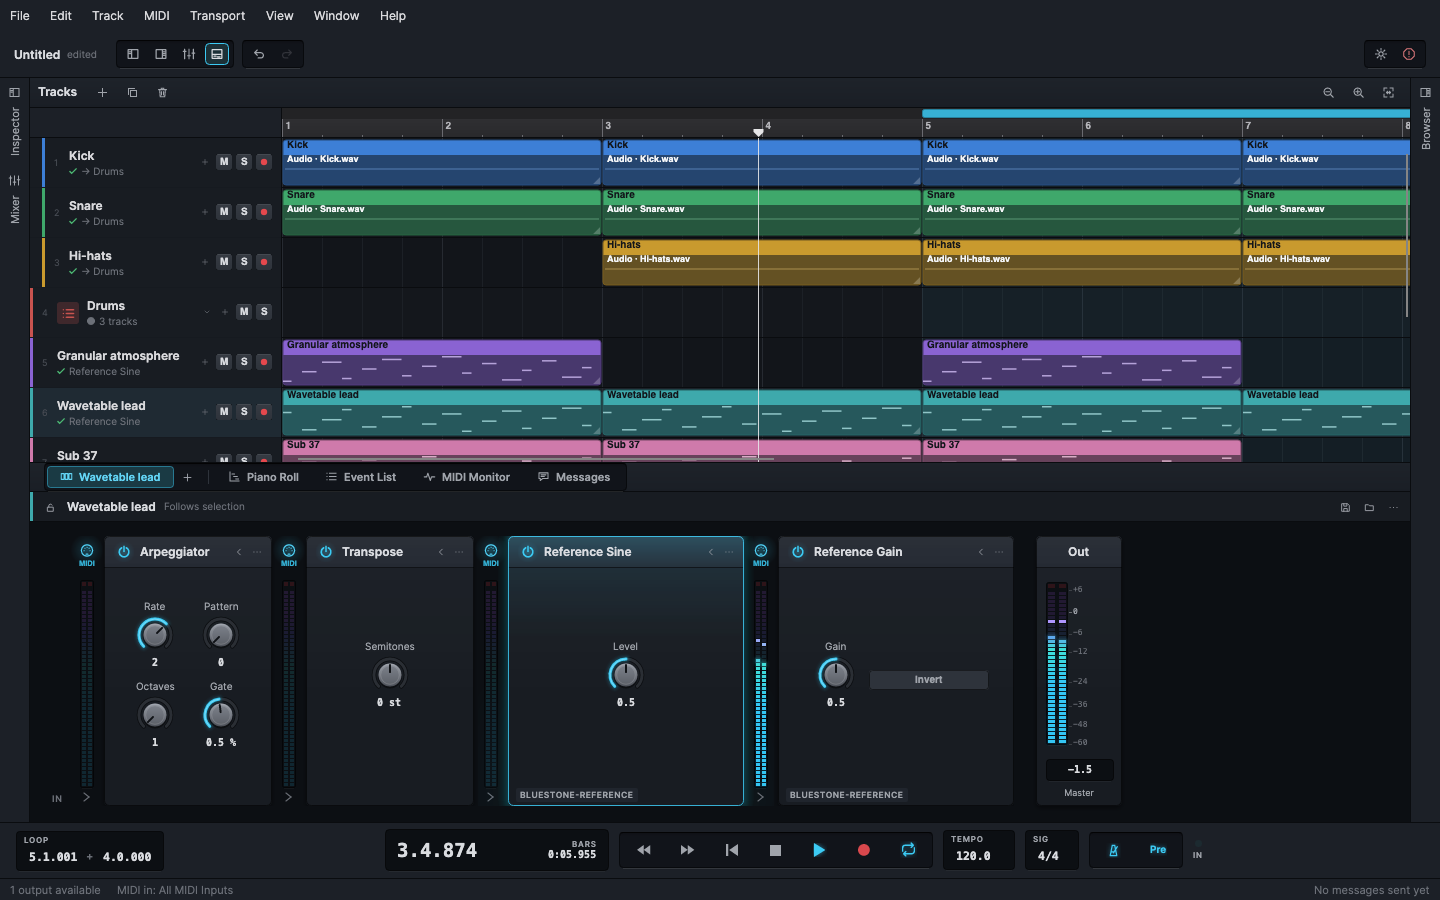
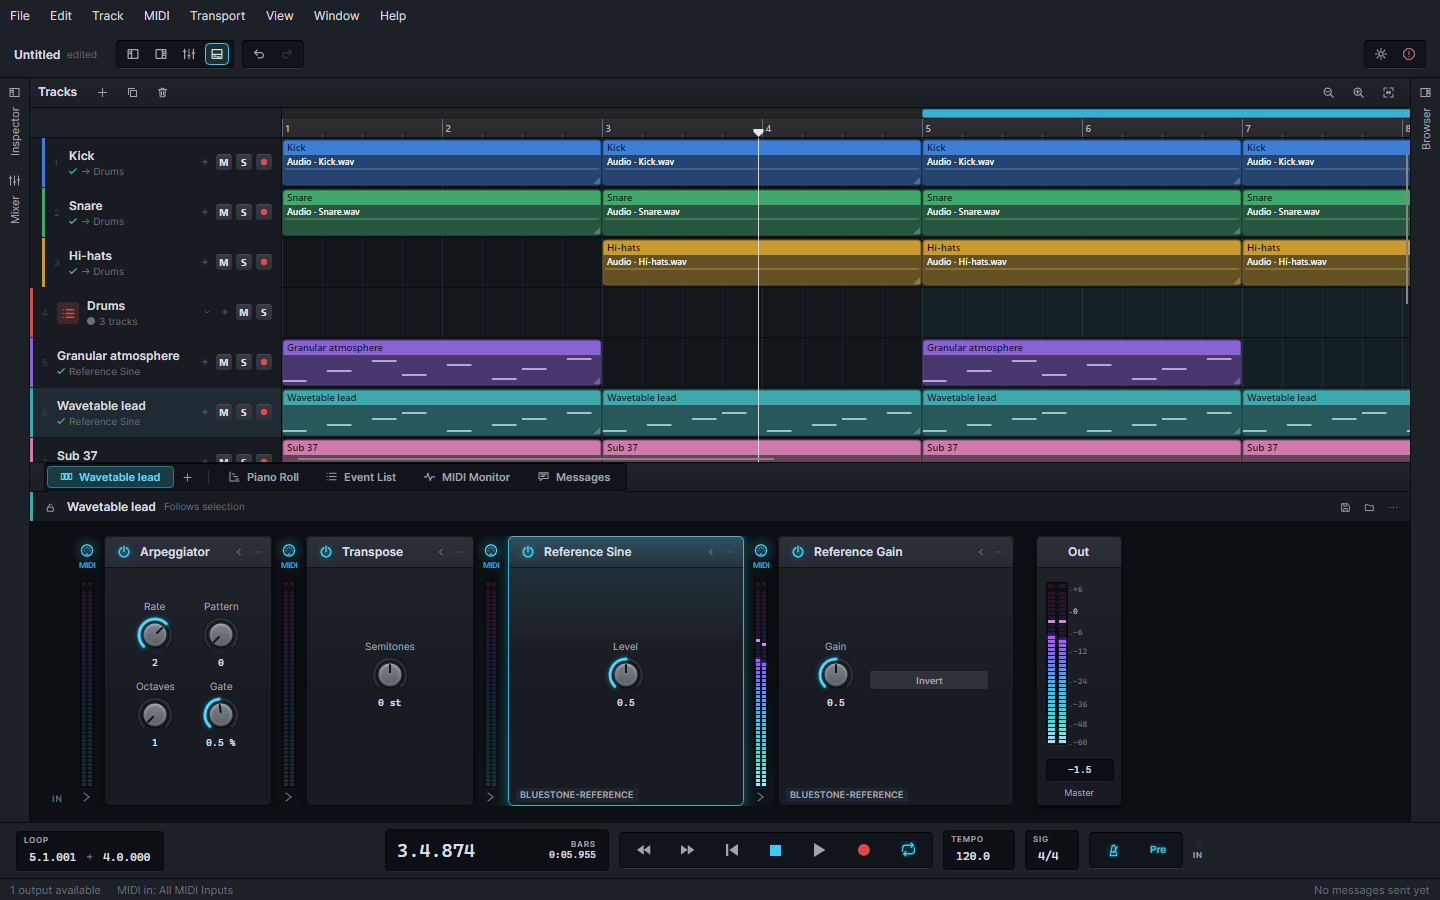
Use customized signal gradient as the meter default
Refresh mixer and device-chain defaults and README screenshots while preserving saved custom palettes.

diff --git a/src/dotnet/Bluestone.Tests.Ui/SettingsTests.cs b/src/dotnet/Bluestone.Tests.Ui/SettingsTests.cs
@@ -52,33 +52,33 @@ public sealed class SettingsTests : IDisposable
             var editor = AppUnderTest.Within<SignalGradientEditor>(page, _ => true);
             TextKey ActionKey(string name) => AppUnderTest.Within<TextKey>(page, k => Avalonia.Automation.AutomationProperties.GetName(k) == name);
             string[] Names() => [.. editor.Handles.Select(h => Avalonia.Automation.AutomationProperties.GetName(h) ?? string.Empty)];
-            Assert.Equal(["Gradient stop 1 at 0%", "Gradient stop 2 at 40%", "Gradient stop 3 at 62%", "Gradient stop 4 at 78%", "Gradient stop 5 at 86%", "Gradient stop 6 at 100%"], Names());
+            Assert.Equal(["Gradient stop 1 at 0%", "Gradient stop 2 at 14%", "Gradient stop 3 at 32%", "Gradient stop 4 at 57%", "Gradient stop 5 at 72%", "Gradient stop 6 at 100%"], Names());
             Assert.Same(display.Mixer, editor.DataContext);
 
-            // Add: a stop in the widest gap (0% to 40%), selected, saved, and on every meter.
+            // Add: a stop in the widest gap (purple to pink), selected, saved, and on every meter.
             app.Click(ActionKey("Add gradient stop"));
             Assert.False(ActionKey("Add gradient stop").IsChecked, "An action key springs back.");
             Assert.Equal(7, store.Load().MixerGradient.Stops.Length);
-            Assert.Equal("Gradient stop 2 at 20%", Names()[1]);
-            Assert.Equal("20%", AppUnderTest.Within<TextBlock>(page, t => t.Name == "StopPositionText").Text);
+            Assert.Equal("Gradient stop 6 at 86%", Names()[5]);
+            Assert.Equal("86%", AppUnderTest.Within<TextBlock>(page, t => t.Name == "StopPositionText").Text);
             Assert.Equal(7, Desktop.Theme.MeterGradient.Mixer.Stops.Count);
 
-            // Move: drag the new stop to 30%, then nudge it with the keyboard (1%, and 5% with Shift).
-            var handle = editor.Handles[1];
+            // Move: drag the new stop to 20%, then nudge it with the keyboard (1%, and 5% with Shift).
+            var handle = editor.Handles[5];
             var from = new Point(handle.Bounds.Center.X, handle.Bounds.Center.Y);
-            app.Drag(editor, from, new Point(editor.XAt(0.3), from.Y));
-            Assert.Equal(0.3, store.Load().MixerGradient.Stops[1].Position, 2);
-            Assert.True(editor.Handles[1].IsFocused);
+            app.Drag(editor, from, new Point(editor.XAt(0.2), from.Y));
+            Assert.Equal(0.2, store.Load().MixerGradient.Stops[2].Position, 2);
+            Assert.True(editor.Handles[2].IsFocused);
             app.Press(Key.Right);
-            Assert.Equal(0.31, store.Load().MixerGradient.Stops[1].Position, 3);
+            Assert.Equal(0.21, store.Load().MixerGradient.Stops[2].Position, 3);
             app.Press(Key.Right, RawInputModifiers.Shift);
-            Assert.Equal(0.36, store.Load().MixerGradient.Stops[1].Position, 3);
-            Assert.Equal("Gradient stop 2 at 36%", Names()[1]);
-            Assert.Equal(0.36, Desktop.Theme.MeterGradient.Mixer.Stops[1].Position, 3);
+            Assert.Equal(0.26, store.Load().MixerGradient.Stops[2].Position, 3);
+            Assert.Equal("Gradient stop 3 at 26%", Names()[2]);
+            Assert.Equal(0.26, Desktop.Theme.MeterGradient.Mixer.Stops[2].Position, 3);
 
             // A swatch recolours the selected stop.
             app.Click(AppUnderTest.Within<Button>(page, b => Avalonia.Automation.AutomationProperties.GetName(b) == "Color #4CB873"));
-            Assert.Equal(new SignalGradientStop("#4CB873", 0.36), store.Load().MixerGradient.Stops[1]);
+            Assert.Equal(new SignalGradientStop("#4CB873", 0.26), store.Load().MixerGradient.Stops[2]);
             app.Window.MouseMove(new Point(1300, 800), RawInputModifiers.None);
             await app.SettleTransitionsAsync();
             var frame = app.SaveFrame("settings-display-gradient-editor");
@@ -244,7 +244,7 @@ public sealed class SettingsTests : IDisposable
             var start = handle.TranslatePoint(new Point(handle.Bounds.Width / 2, handle.Bounds.Height / 2), app.Window)!.Value;
             app.Window.MouseMove(start, RawInputModifiers.None);
             app.Window.MouseDown(start, MouseButton.Left, RawInputModifiers.None);
-            for (var position = 0.35; position > 0.24; position -= 0.05)
+            for (var position = 0.30; position > 0.19; position -= 0.05)
             {
                 var at = new Point(editor.TranslatePoint(new Point(editor.XAt(position), 0), app.Window)!.Value.X, start.Y);
                 app.Window.MouseMove(at, RawInputModifiers.LeftMouseButton);
@@ -254,9 +254,9 @@ public sealed class SettingsTests : IDisposable
                 Assert.Equal(saved, File.ReadAllText(path));
             }
 
-            app.Window.MouseUp(new Point(editor.TranslatePoint(new Point(editor.XAt(0.25), 0), app.Window)!.Value.X, start.Y), MouseButton.Left, RawInputModifiers.None);
+            app.Window.MouseUp(new Point(editor.TranslatePoint(new Point(editor.XAt(0.20), 0), app.Window)!.Value.X, start.Y), MouseButton.Left, RawInputModifiers.None);
             app.Settle();
-            Assert.Equal(0.25, store.Load().MixerGradient.Stops[1].Position, 2);
+            Assert.Equal(0.20, store.Load().MixerGradient.Stops[1].Position, 2);
 
             // Nudges stop at the ends of the scale, by 1% or by 5% with Shift.
             editor.Handles[0].Focus();
@@ -276,9 +276,9 @@ public sealed class SettingsTests : IDisposable
             Assert.Equal(AutomationControlType.Slider, stopPeer.GetAutomationControlType());
             Assert.StartsWith(display.Mixer.Gradient.Stops[2].Colour + ". Left or Right to move", stopPeer.GetHelpText(), StringComparison.Ordinal);
             var range = Assert.IsAssignableFrom<IRangeValueProvider>(stopPeer);
-            Assert.Equal((0, 100, 62), (range.Minimum, range.Maximum, range.Value));
-            range.SetValue(70);
-            Assert.Equal(0.7, store.Load().MixerGradient.Stops[2].Position, 3);
+            Assert.Equal((0, 100, 32.3), (range.Minimum, range.Maximum, range.Value));
+            range.SetValue(50);
+            Assert.Equal(0.5, store.Load().MixerGradient.Stops[2].Position, 3);
 
             // The gradient's actions are buttons, not toggles, and stay unchecked.
             var add = AppUnderTest.Within<TextKey>(page, k => Avalonia.Automation.AutomationProperties.GetName(k) == "Add gradient stop");

diff --git a/src/dotnet/Bluestone.Tests.Unit/Presentation/DisplaySettingsTests.cs b/src/dotnet/Bluestone.Tests.Unit/Presentation/DisplaySettingsTests.cs
@@ -135,23 +135,23 @@ public sealed class DisplaySettingsTests : IDisposable
 
         // A new stop takes the colour already there, so the gradient looks the same.
         var before = display.Mixer.Gradient.Evaluate(0.2);
-        Assert.Equal(1, display.Mixer.AddGradientStop(0.2));
+        Assert.Equal(2, display.Mixer.AddGradientStop(0.2));
         Assert.Equal(7, display.Mixer.Gradient.Stops.Length);
-        Assert.Equal(new SignalGradientStop("#34C6F4", 0.2), display.Mixer.Gradient.Stops[1]);
+        Assert.Equal(new SignalGradientStop("#3BD7E2", 0.2), display.Mixer.Gradient.Stops[2]);
         Assert.Equal(before, display.Mixer.Gradient.Evaluate(0.2));
         Assert.Contains(nameof(GradientEditorViewModel.Gradient), notified);
         Assert.Equal(display.Mixer.Gradient, store.Load().MixerGradient);
 
-        Assert.True(display.Mixer.SetGradientStopColour(1, "#ff0000"));
-        Assert.Equal(new SignalGradientStop("#FF0000", 0.2), store.Load().MixerGradient.Stops[1]);
-        Assert.False(display.Mixer.SetGradientStopColour(1, "red"));
+        Assert.True(display.Mixer.SetGradientStopColour(2, "#ff0000"));
+        Assert.Equal(new SignalGradientStop("#FF0000", 0.2), store.Load().MixerGradient.Stops[2]);
+        Assert.False(display.Mixer.SetGradientStopColour(2, "red"));
         Assert.False(display.Mixer.SetGradientStopColour(9, "#FF0000"));
 
         // Moving past a neighbour reorders; the returned index follows the stop.
-        Assert.Equal(2, display.Mixer.MoveGradientStop(1, 0.5));
-        Assert.Equal(new SignalGradientStop("#FF0000", 0.5), store.Load().MixerGradient.Stops[2]);
+        Assert.Equal(4, display.Mixer.MoveGradientStop(2, 0.6));
+        Assert.Equal(new SignalGradientStop("#FF0000", 0.6), store.Load().MixerGradient.Stops[4]);
         // At a tie it keeps its order relative to the stop already there.
-        Assert.Equal(5, display.Mixer.MoveGradientStop(2, 1.5));
+        Assert.Equal(5, display.Mixer.MoveGradientStop(4, 1.5));
         Assert.Equal(new SignalGradientStop("#FF0000", 1), store.Load().MixerGradient.Stops[5]);
         Assert.Equal(-1, display.Mixer.MoveGradientStop(7, 0.5));
 
@@ -183,11 +183,12 @@ public sealed class DisplaySettingsTests : IDisposable
         var display = new DisplayViewModel();
         display.Use(store);
 
-        // Default's widest gap is 0 to 0.40, so the new stop goes at 0.20 and is selected.
+        // Default's widest gap is purple to pink, so its midpoint is selected.
         display.Mixer.AddGradientStopInLargestGapCommand.Execute(null);
-        Assert.Equal(1, display.Mixer.SelectedGradientStopIndex);
-        Assert.Equal(new SignalGradientStop("#34C6F4", 0.2), display.Mixer.SelectedGradientStop);
-        Assert.Equal("20%", display.Mixer.SelectedGradientStopPercent);
+        Assert.Equal(5, display.Mixer.SelectedGradientStopIndex);
+        Assert.Equal("#DB45C9", display.Mixer.SelectedGradientStop.Colour);
+        Assert.Equal(0.8595, display.Mixer.SelectedGradientStop.Position, precision: 6);
+        Assert.Equal("86%", display.Mixer.SelectedGradientStopPercent);
         Assert.Equal(7, store.Load().MixerGradient.Stops.Length);
 
         display.Mixer.AddGradientStopInLargestGapCommand.Execute(null);
@@ -222,22 +223,22 @@ public sealed class DisplaySettingsTests : IDisposable
 
         display.Mixer.NudgeGradientStop(1, 0.01);
         Assert.Equal(1, display.Mixer.SelectedGradientStopIndex);
-        Assert.Equal(0.41, store.Load().MixerGradient.Stops[1].Position);
-        Assert.Equal("41%", display.Mixer.SelectedGradientStopPercent);
+        Assert.Equal(0.146, store.Load().MixerGradient.Stops[1].Position);
+        Assert.Equal("15%", display.Mixer.SelectedGradientStopPercent);
 
-        // Past the 0.62 stop: the selection follows the stop to its new place.
+        // Past the cyan and violet stops: the selection follows the stop to its new place.
         display.Mixer.MoveAndSelectGradientStop(1, 0.7);
-        Assert.Equal(2, display.Mixer.SelectedGradientStopIndex);
-        Assert.Equal(new SignalGradientStop("#34C6F4", 0.7), display.Mixer.SelectedGradientStop);
-        display.Mixer.NudgeGradientStop(2, -0.05);
-        Assert.Equal(0.65, store.Load().MixerGradient.Stops[2].Position);
+        Assert.Equal(3, display.Mixer.SelectedGradientStopIndex);
+        Assert.Equal(new SignalGradientStop("#3FE0D8", 0.7), display.Mixer.SelectedGradientStop);
+        display.Mixer.NudgeGradientStop(3, -0.05);
+        Assert.Equal(0.65, store.Load().MixerGradient.Stops[3].Position);
 
         var notified = new List<string?>();
         display.Mixer.PropertyChanged += (_, e) => notified.Add(e.PropertyName);
         display.Mixer.SelectedGradientStopColour = "#12";
-        Assert.Equal("#34C6F4", display.Mixer.SelectedGradientStopColour);
+        Assert.Equal("#3FE0D8", display.Mixer.SelectedGradientStopColour);
         display.Mixer.SelectedGradientStopColour = "ff8800";
-        Assert.Equal("#FF8800", store.Load().MixerGradient.Stops[2].Colour);
+        Assert.Equal("#FF8800", store.Load().MixerGradient.Stops[3].Colour);
         Assert.Contains(nameof(GradientEditorViewModel.SelectedGradientStopColour), notified);
         display.Mixer.ChooseGradientStopColourCommand.Execute("#7C6BFF");
         Assert.Equal("#7C6BFF", display.Mixer.SelectedGradientStopColour);
@@ -368,12 +369,12 @@ public sealed class DisplaySettingsTests : IDisposable
 
         var saved = store.Load();
         Assert.Equal("#FF0000", saved.MixerGradient.Stops[0].Colour);
-        Assert.Equal(0.40, saved.MixerGradient.Stops[1].Position);
-        Assert.Equal("#34C6F4", saved.ChainGradient.Stops[0].Colour);
-        Assert.Equal(0.5, saved.ChainGradient.Stops[1].Position);
+        Assert.Equal(0.136, saved.MixerGradient.Stops[1].Position);
+        Assert.Equal("#B2E0F4", saved.ChainGradient.Stops[0].Colour);
+        Assert.Equal(0.5, saved.ChainGradient.Stops[2].Position);
         Assert.Equal(5, saved.GainGradient.Stops.Length);
         Assert.Equal(0, display.Mixer.SelectedGradientStopIndex);
-        Assert.Equal(1, display.Chain.SelectedGradientStopIndex);
+        Assert.Equal(2, display.Chain.SelectedGradientStopIndex);
 
         display.Gain.ResetGradientCommand.Execute(null);
         Assert.Equal(SignalGradient.GainDefault, store.Load().GainGradient);

diff --git a/src/dotnet/Bluestone.Presentation/SignalGradient.cs b/src/dotnet/Bluestone.Presentation/SignalGradient.cs
@@ -38,15 +38,15 @@ public sealed class SignalGradient : IEquatable<SignalGradient>
         }
     }
 
-    /// <summary>The R4-C meter colours: cyan through teal and violet to purple.</summary>
+    /// <summary>The mixer and device chain meter colors: pale blue through teal, cyan, violet, and purple to pink.</summary>
     public static SignalGradient Default { get; } = Create(
     [
-        new("#34C6F4", 0),
-        new("#34C6F4", 0.40),
-        new("#3FE0D8", 0.62),
-        new("#7C6BFF", 0.78),
-        new("#B65CFF", 0.86),
-        new("#B65CFF", 1.0),
+        new("#B2E0F4", 0),
+        new("#3FE0D8", 0.136),
+        new("#34C6F4", 0.323),
+        new("#7C6BFF", 0.571),
+        new("#B65CFF", 0.719),
+        new("#FF2E93", 1.0),
     ]);
 
     /// <summary>The gain LEDs' colours: violet through orchid to rose, evenly spaced (the gain palette before it was editable).</summary>

diff --git a/src/dotnet/Bluestone.Tests.Unit/Presentation/SignalGradientTests.cs b/src/dotnet/Bluestone.Tests.Unit/Presentation/SignalGradientTests.cs
@@ -9,10 +9,10 @@ public sealed class SignalGradientTests
         SignalGradient.Create(stops.Select(s => new SignalGradientStop(s.Colour, s.Position)));
 
     [Fact]
-    public void Default_HasTheR4CStops()
+    public void Default_HasThePaleBlueToPinkStops()
     {
         Assert.Equal<SignalGradientStop>(
-            [new("#34C6F4", 0), new("#34C6F4", 0.40), new("#3FE0D8", 0.62), new("#7C6BFF", 0.78), new("#B65CFF", 0.86), new("#B65CFF", 1.0)],
+            [new("#B2E0F4", 0), new("#3FE0D8", 0.136), new("#34C6F4", 0.323), new("#7C6BFF", 0.571), new("#B65CFF", 0.719), new("#FF2E93", 1.0)],
             SignalGradient.Default.Stops);
     }
 

diff --git a/docs/user-guide.md b/docs/user-guide.md
@@ -169,7 +169,7 @@ Under **Settings ▸ Display ▸ INDICATOR COLORS**, choose one of three indepen
 
 Picker changes preview live while preference saves are held. **Apply** keeps the color; **Cancel**, Escape, or clicking outside the picker restores the original without saving the preview color. Leaving the page, selecting another indicator, or closing Settings also cancels. An incomplete or invalid hex value does not change the preview and disables Apply until six valid hex digits are entered.
 
-Drag a handle, or focus it and press Left or Right (1%, or 5% with Shift), to change where its color begins; two stops at the same place make a hard edge. **Add stop** adds one in the widest gap (up to eight), **Remove stop** removes the selected one (two always remain), and **Reset to default** resets only that gradient: aqua-to-violet for mixer and chain meters, violet-to-rose for gain LEDs. **Device chain** also offers **MIDI light**, a single color whose chip opens the same picker; it is not a gradient. The selected stop and MIDI light also have hex fields and swatches on the page for direct edits. Clip lamps stay fixed red, outside the gradients. An existing saved signal gradient is copied into both mixer and chain settings on upgrade; gain LEDs start with their own default.
+Drag a handle, or focus it and press Left or Right (1%, or 5% with Shift), to change where its color begins; two stops at the same place make a hard edge. **Add stop** adds one in the widest gap (up to eight), **Remove stop** removes the selected one (two always remain), and **Reset to default** resets only that gradient: pale blue through teal, cyan, violet, and purple to pink for mixer and chain meters, violet-to-rose for gain LEDs. Saved custom gradients stay unchanged when the factory default changes; use **Reset to default** to adopt the new palette for either family. **Device chain** also offers **MIDI light**, a single color whose chip opens the same picker; it is not a gradient. The selected stop and MIDI light also have hex fields and swatches on the page for direct edits. Clip lamps stay fixed red, outside the gradients. An existing saved signal gradient is copied into both mixer and chain settings on upgrade; gain LEDs start with their own default.
 
 The **LED fade** and **LED warm-up** check boxes are both on by default and can be cleared independently. Warm-up softly lights meter cells and gain LEDs over about 20 ms; held peaks, clip lamps, MIDI indicators, and lit keys light immediately. Fade softens the return to dark: about 90 ms for meter cells and held peaks; 140 ms for gain LEDs, clip lamps, the Device chain MIDI light, and the transport's **IN** and computer-keyboard note lights; and 60 ms for lit keys, including the transport buttons. This is display motion only: it does not change the measured levels, peak hold, clip latch, or audio. It sits on top of the meters' existing fall.
 
